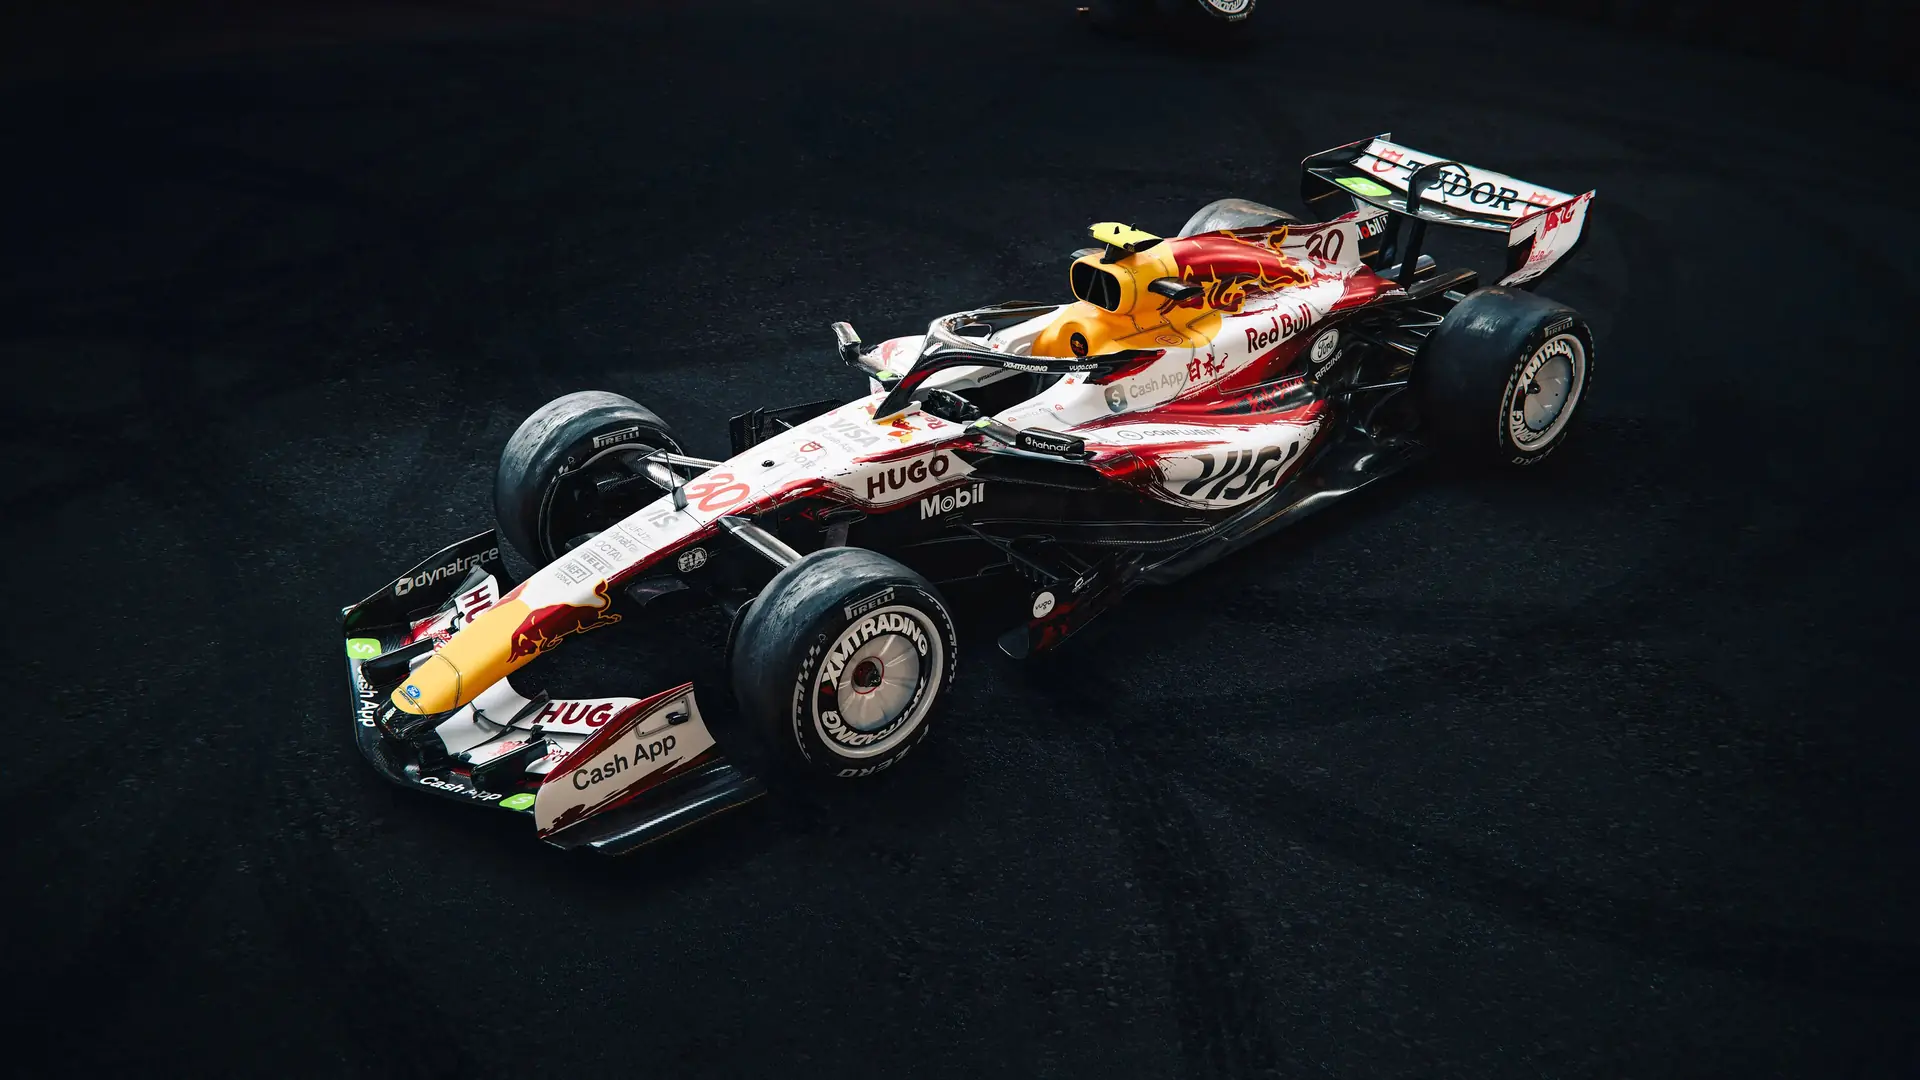
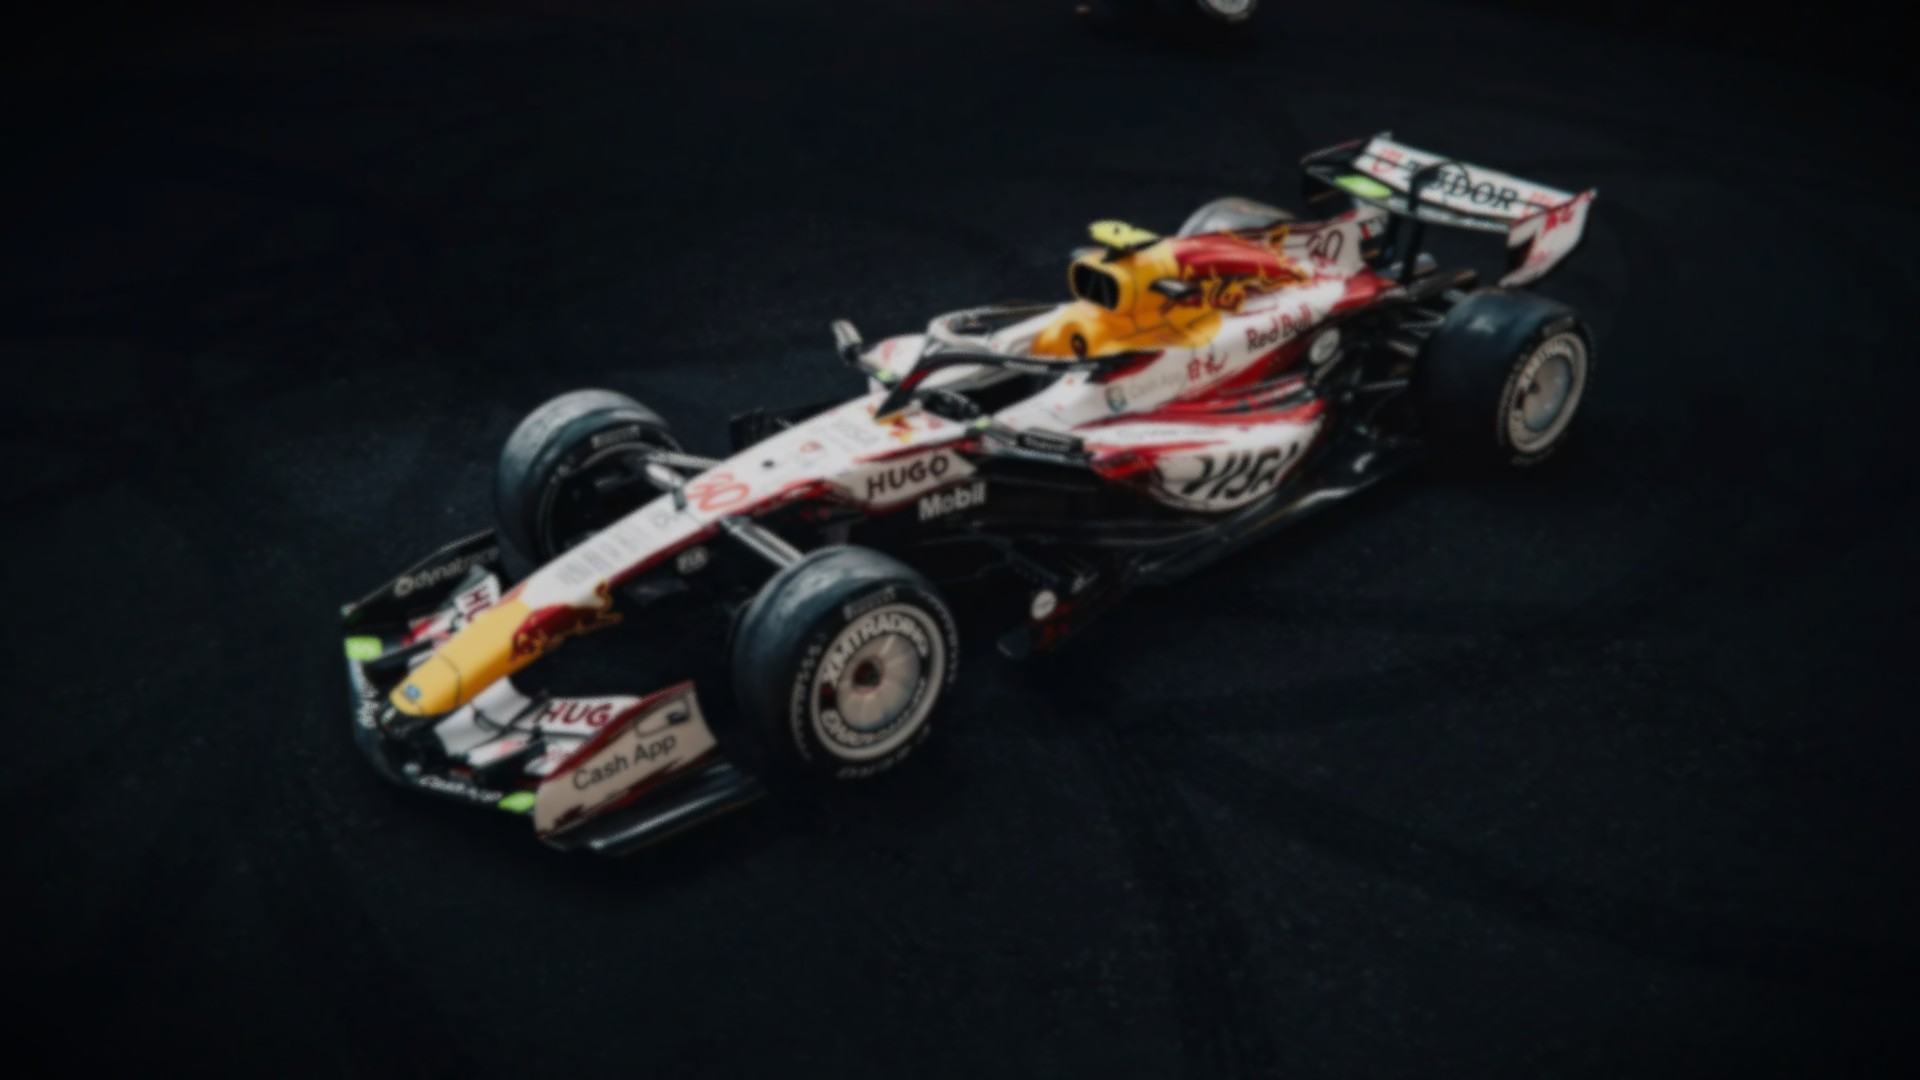
v1.1 fix

diff --git a/index.html b/index.html
@@ -17,6 +17,8 @@
 
   :root {
     --bg: #090b10;
+    --bg-image: none;
+    --bg-image-position: center center;
     --surface: rgba(8, 10, 16, 0.62);
     --surface-hover: rgba(10, 12, 18, 0.78);
     --text: #f7f3ef;
@@ -35,11 +37,7 @@
 
   body {
     font-family: 'DM Sans', sans-serif;
-    background-color: #090b10;
-    background-position: center center;
-    background-repeat: no-repeat;
-    background-size: cover;
-    background-attachment: fixed;
+    background-color: transparent;
     color: var(--text);
     min-height: 100vh;
     position: relative;
@@ -50,10 +48,11 @@
     position: fixed;
     inset: 0;
     background:
-      radial-gradient(circle at center, rgba(0, 0, 0, 0.06) 0%, rgba(0, 0, 0, 0.48) 58%, rgba(0, 0, 0, 0.9) 100%),
-      linear-gradient(180deg, rgba(7, 9, 12, 0.14) 0%, rgba(7, 9, 12, 0.76) 100%);
+      var(--bg-image) var(--bg-image-position) / cover no-repeat fixed,
+      radial-gradient(circle at center, rgba(0, 0, 0, 0.14) 0%, rgba(0, 0, 0, 0.56) 58%, rgba(0, 0, 0, 0.92) 100%),
+      linear-gradient(180deg, rgba(7, 9, 12, 0.22) 0%, rgba(7, 9, 12, 0.8) 100%);
     pointer-events: none;
-    z-index: -2;
+    z-index: 0;
   }
 
   body::after {
@@ -61,15 +60,15 @@
     position: fixed;
     inset: 0;
     background:
-      radial-gradient(circle at top left, var(--accent-soft) 0%, rgba(0, 0, 0, 0) 30%),
-      radial-gradient(circle at bottom right, rgba(0, 0, 0, 0.5) 0%, rgba(0, 0, 0, 0) 34%),
-      linear-gradient(90deg, rgba(6, 8, 12, 0.62) 0%, rgba(6, 8, 12, 0.14) 38%, rgba(6, 8, 12, 0.52) 100%);
+      radial-gradient(circle at top left, var(--accent-soft) 0%, rgba(0, 0, 0, 0) 28%),
+      radial-gradient(circle at bottom right, rgba(0, 0, 0, 0.56) 0%, rgba(0, 0, 0, 0) 34%),
+      linear-gradient(90deg, rgba(6, 8, 12, 0.84) 0%, rgba(6, 8, 12, 0.44) 32%, rgba(6, 8, 12, 0.22) 52%, rgba(6, 8, 12, 0.6) 100%);
     pointer-events: none;
-    z-index: -1;
+    z-index: 1;
   }
 
   html.theme-racing-bulls body {
-    background-image: url('./2026-Racing-Bulls-VCARB-03-003-2160.webp');
+    --bg-image: url('./2026-Racing-Bulls-VCARB-03-003-2160.webp');
     --accent: #ff7053;
     --accent-soft: rgba(255, 112, 83, 0.18);
     --surface: rgba(10, 10, 14, 0.62);
@@ -79,7 +78,7 @@
   }
 
   html.theme-alpine body {
-    background-image: url('./2026-Alpine-A526-001-2160.webp');
+    --bg-image: url('./2026-Alpine-A526-001-2160.webp');
     --accent: #ff5ca8;
     --accent-soft: rgba(255, 92, 168, 0.16);
     --surface: rgba(7, 10, 18, 0.66);
@@ -94,7 +93,7 @@
   .section,
   footer {
     position: relative;
-    z-index: 1;
+    z-index: 2;
   }
 
   nav {
@@ -107,17 +106,41 @@
     padding: 0 2.5rem;
     display: flex;
     align-items: center;
-    justify-content: space-between;
+    justify-content: flex-end;
+    gap: 1rem;
     height: 62px;
   }
 
   .nav-logo {
+    text-decoration: none;
+    display: inline-flex;
+    align-items: center;
+    justify-content: center;
+    width: 42px;
+    height: 42px;
+    border-radius: 999px;
+    border: 1px solid rgba(247, 243, 239, 0.18);
+    background: rgba(247, 243, 239, 0.06);
+    box-shadow: 0 8px 24px rgba(0, 0, 0, 0.24);
+    overflow: hidden;
+  }
+
+  .nav-title {
+    margin-right: auto;
     font-family: 'DM Serif Display', serif;
     font-size: 18px;
-    letter-spacing: -0.03em;
+    letter-spacing: -0.02em;
     color: var(--text);
     text-decoration: none;
     text-shadow: 0 8px 24px rgba(0, 0, 0, 0.28);
+    white-space: nowrap;
+  }
+
+  .nav-avatar {
+    width: 100%;
+    height: 100%;
+    object-fit: cover;
+    display: block;
   }
 
   .nav-links {
@@ -159,6 +182,14 @@
   .nav-toggle svg {
     width: 20px;
     height: 20px;
+  }
+
+  .nav-toggle-avatar {
+    display: none;
+    width: 100%;
+    height: 100%;
+    object-fit: cover;
+    border-radius: 999px;
   }
 
   .mobile-menu {
@@ -211,6 +242,17 @@
     animation-delay: 0.08s;
   }
 
+  .hero-shell {
+    max-width: 540px;
+    padding: 2rem 2rem 1.6rem;
+    border: 1px solid rgba(247, 243, 239, 0.12);
+    background: linear-gradient(180deg, rgba(8, 10, 16, 0.54) 0%, rgba(8, 10, 16, 0.32) 100%);
+    box-shadow: 0 24px 60px rgba(0, 0, 0, 0.26);
+    backdrop-filter: blur(14px);
+    -webkit-backdrop-filter: blur(14px);
+    border-radius: 28px;
+  }
+
   .hero-tag {
     display: inline-block;
     font-size: 11px;
@@ -233,7 +275,7 @@
     letter-spacing: -0.05em;
     color: var(--text);
     margin-bottom: 1.4rem;
-    text-shadow: 0 14px 38px rgba(0, 0, 0, 0.38);
+    text-shadow: 0 14px 38px rgba(0, 0, 0, 0.52);
   }
 
   .hero h1 em {
@@ -248,7 +290,7 @@
     max-width: 600px;
     font-weight: 400;
     margin-bottom: 2.5rem;
-    text-shadow: 0 10px 24px rgba(0, 0, 0, 0.32);
+    text-shadow: 0 10px 24px rgba(0, 0, 0, 0.52);
   }
 
   .hero-actions {
@@ -275,12 +317,13 @@
     color: #0b0d13;
     font-weight: 700;
     letter-spacing: 0.01em;
+    box-shadow: 0 12px 28px rgba(0, 0, 0, 0.2);
   }
 
   .btn-primary:hover { opacity: 0.9; transform: translateY(-1px); }
 
   .btn-ghost {
-    background: rgba(8, 10, 16, 0.24);
+    background: rgba(8, 10, 16, 0.42);
     color: var(--text);
     font-weight: 500;
     border: 1px solid var(--border);
@@ -485,9 +528,16 @@
   .section:nth-of-type(4) { animation-delay: 0.5s; }
 
   @media (max-width: 768px) {
+    html.theme-racing-bulls body {
+      --bg-image: url('./2026-Racing-Bulls-VCARB-mobile.webp');
+    }
+
+    html.theme-alpine body {
+      --bg-image: url('./2026-Alpine-A526-mobile.webp');
+    }
+
     body {
-      background-attachment: scroll;
-      background-position: center top;
+      --bg-image-position: center top;
     }
 
     nav {
@@ -499,12 +549,50 @@
       display: none;
     }
 
+    .nav-title {
+      font-size: 16px;
+      max-width: calc(100vw - 130px);
+      overflow: hidden;
+      text-overflow: ellipsis;
+    }
+
+    .nav-logo {
+      display: none;
+    }
+
     .nav-toggle {
       display: inline-flex;
+      position: relative;
+      width: 44px;
+      height: 44px;
+      padding: 0;
+      overflow: hidden;
+    }
+
+    .nav-toggle-avatar {
+      display: block;
+    }
+
+    .nav-toggle svg {
+      position: absolute;
+      right: -1px;
+      bottom: -1px;
+      width: 20px;
+      height: 20px;
+      padding: 4px;
+      border-radius: 999px;
+      background: rgba(8, 10, 16, 0.88);
+      border: 1px solid rgba(247, 243, 239, 0.18);
     }
 
     .hero {
       padding: 5rem 1.25rem 3.5rem;
+    }
+
+    .hero-shell {
+      max-width: 100%;
+      padding: 1.5rem 1.25rem 1.35rem;
+      border-radius: 22px;
     }
 
     .hero-bio {
@@ -551,6 +639,11 @@
   }
 
   @media (max-width: 480px) {
+    .bg-blur {
+      filter: blur(14px) saturate(0.9) brightness(0.92);
+      transform: scale(1.06);
+    }
+
     .hero {
       padding-top: 4.25rem;
     }
@@ -568,6 +661,16 @@
     }
   }
 
+  @media (min-width: 769px) and (max-width: 1366px) {
+    html.theme-racing-bulls body {
+      --bg-image: url('./2026-Racing-Bulls-VCARB-03-003-2160-1280.webp');
+    }
+
+    html.theme-alpine body {
+      --bg-image: url('./2026-Alpine-A526-001-2160-1280.webp');
+    }
+  }
+
   @keyframes fadeUp {
     to { opacity: 1; transform: translateY(0); }
   }
@@ -576,19 +679,23 @@
 <body>
 
 <nav>
-  <a class="nav-logo" href="#">AV</a>
+  <a class="nav-title" href="#">Abhimanyu Vishwakarma</a>
   <ul class="nav-links">
     <li><a href="#skills">Skills</a></li>
     <li><a href="#projects">Projects</a></li>
     <li><a href="#contact">Contact</a></li>
   </ul>
   <button class="nav-toggle" type="button" aria-expanded="false" aria-controls="mobile-menu" aria-label="Open menu">
+    <img class="nav-toggle-avatar" src="./mrAbhimanyu.png" alt="Open menu">
     <svg viewBox="0 0 24 24" fill="none" stroke="currentColor" stroke-width="1.8" stroke-linecap="round">
       <path d="M4 7h16"></path>
       <path d="M4 12h16"></path>
       <path d="M4 17h16"></path>
     </svg>
   </button>
+  <a class="nav-logo" href="#" aria-label="Abhimanyu Vishwakarma home">
+    <img class="nav-avatar" src="./mrAbhimanyu.png" alt="Abhimanyu Vishwakarma">
+  </a>
 </nav>
 
 <div class="mobile-menu" id="mobile-menu" aria-hidden="true">
@@ -599,22 +706,24 @@
 </div>
 
 <section class="hero">
-  <span class="hero-tag">Available for opportunities</span>
-  <h1>Abhimanyu<br><em>Vishwakarma</em></h1>
-  <p class="hero-bio">
-    Backend engineer with a passion for building scalable systems and clean APIs. I work with Java, Spring Boot, and cloud infrastructure to turn complex problems into reliable software, and I am always learning what comes next.
-  </p>
-  <div class="hero-actions">
-    <a href="mailto:abhimanyuvishwakarma9228@gmail.com" class="btn-primary">
-      <svg width="14" height="14" viewBox="0 0 24 24" fill="none" stroke="currentColor" stroke-width="2">
-        <rect x="2" y="4" width="20" height="16" rx="2"></rect>
-        <path d="m22 7-8.97 5.7a1.94 1.94 0 0 1-2.06 0L2 7"></path>
-      </svg>
-      Get in touch
-    </a>
-    <a href="https://github.com/mrAbhimanyuVishwakarma" target="_blank" rel="noopener noreferrer" class="btn-ghost">
-      View GitHub →
-    </a>
+  <div class="hero-shell">
+    <span class="hero-tag">Available for opportunities</span>
+    <h1>Abhimanyu<br><em>Vishwakarma</em></h1>
+    <p class="hero-bio">
+      Backend engineer with a passion for building scalable systems and clean APIs. I work with Java, Spring Boot, and cloud infrastructure to turn complex problems into reliable software, and I am always learning what comes next.
+    </p>
+    <div class="hero-actions">
+      <a href="mailto:abhimanyuvishwakarma9228@gmail.com" class="btn-primary">
+        <svg width="14" height="14" viewBox="0 0 24 24" fill="none" stroke="currentColor" stroke-width="2">
+          <rect x="2" y="4" width="20" height="16" rx="2"></rect>
+          <path d="m22 7-8.97 5.7a1.94 1.94 0 0 1-2.06 0L2 7"></path>
+        </svg>
+        Get in touch
+      </a>
+      <a href="https://github.com/mrAbhimanyuVishwakarma" target="_blank" rel="noopener noreferrer" class="btn-ghost">
+        View GitHub →
+      </a>
+    </div>
   </div>
 </section>
 
@@ -625,15 +734,12 @@
   <div class="skills-grid">
     <span class="skill-tag">Java</span>
     <span class="skill-tag">Spring Boot</span>
-    <span class="skill-tag">Python</span>
-    <span class="skill-tag">SQL</span>
-    <span class="skill-tag">PostgreSQL</span>
-    <span class="skill-tag">AWS</span>
-    <span class="skill-tag">GCP</span>
-    <span class="skill-tag">Docker</span>
+    <span class="skill-tag">MySQL</span>
+    <span class="skill-tag">Kafka</span>
+    <span class="skill-tag">AWS|GCP</span>
     <span class="skill-tag">Microservices</span>
     <span class="skill-tag">REST APIs</span>
-    <span class="skill-tag">Git</span>
+    <span class="skill-tag">Git|GitHub</span>
   </div>
 </section>
 
